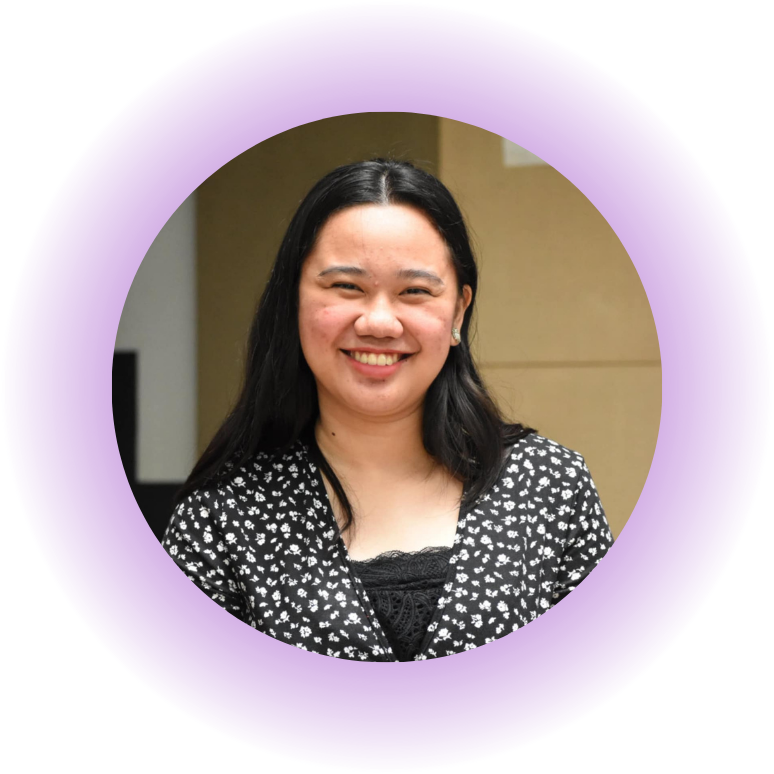
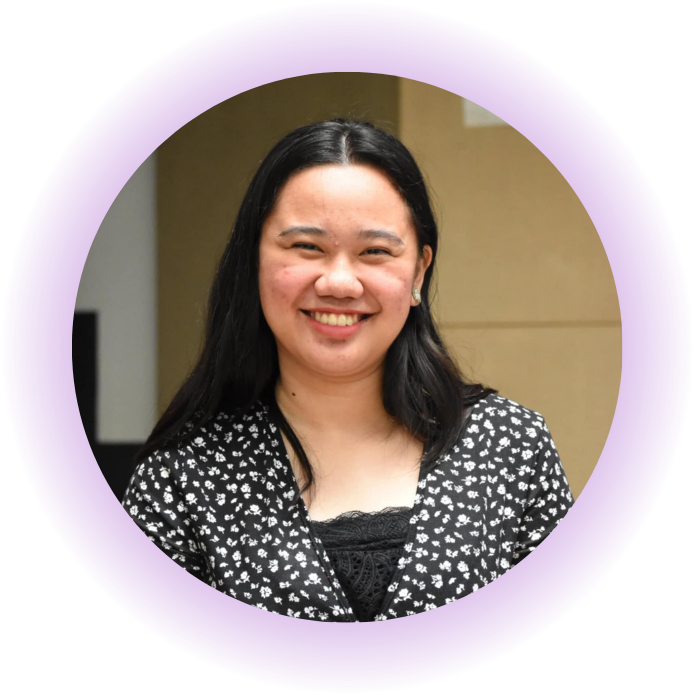
renamed the btn and changed the picture

Changed region(s): [[0.0906, 0.0906, 0.9065, 0.9065]]

diff --git a/index.html b/index.html
@@ -31,9 +31,10 @@
         .btn {
             background-color: #3B1E54;
             color: white;
-            border-radius: 30px;
+            border-radius: 20px;
             font-size: 20px;
             margin-bottom: 10px;
+            width: 100px;
         }
 
         .btn:hover {
@@ -74,7 +75,7 @@
         }
 
         #landingPagePic1 {
-            max-height: 100%;
+            width: 100%;
         }
 
         .object-fit-cover {
@@ -131,15 +132,15 @@
     <div class="landingPage">
         <div class="container-fluid vh-100 d-flex flex-column justify-content-center p-5">
             <div class="row w-100">
-                <div class="col-md-6 col-sm-12 d-flex align-items-center text-center text-md-start">
+                <div class="col-md-6 d-flex align-items-center text-center text-sm-start">
                     <div>
                         <h2>Hello!</h2>
                         <h1>I'M CHRISTELL ANGELICA CHAVEZ</h1>
-                        <a href="#samWorks"><button type="button" class="btn p-2"><b>MY WORKS</b></button></a>
+                        <a href="#samWorks"><button type="button" class="btn p-2"><b>Projects</b></button></a>
                     </div>
                 </div>
-                <div class="col-md-6 col-sm-12 d-flex justify-content-center">
-                    <img class="img-fluid object-fit-cover p-3" id="landingPagePic1" src="assets/landingPagePic1.png">
+                <div class="col-md-6">
+                    <img class="img-fluid object-fit-cover p-4" id="landingPagePic1" src="assets/landingPagePic1.png">
                 </div>
             </div>
         </div>
